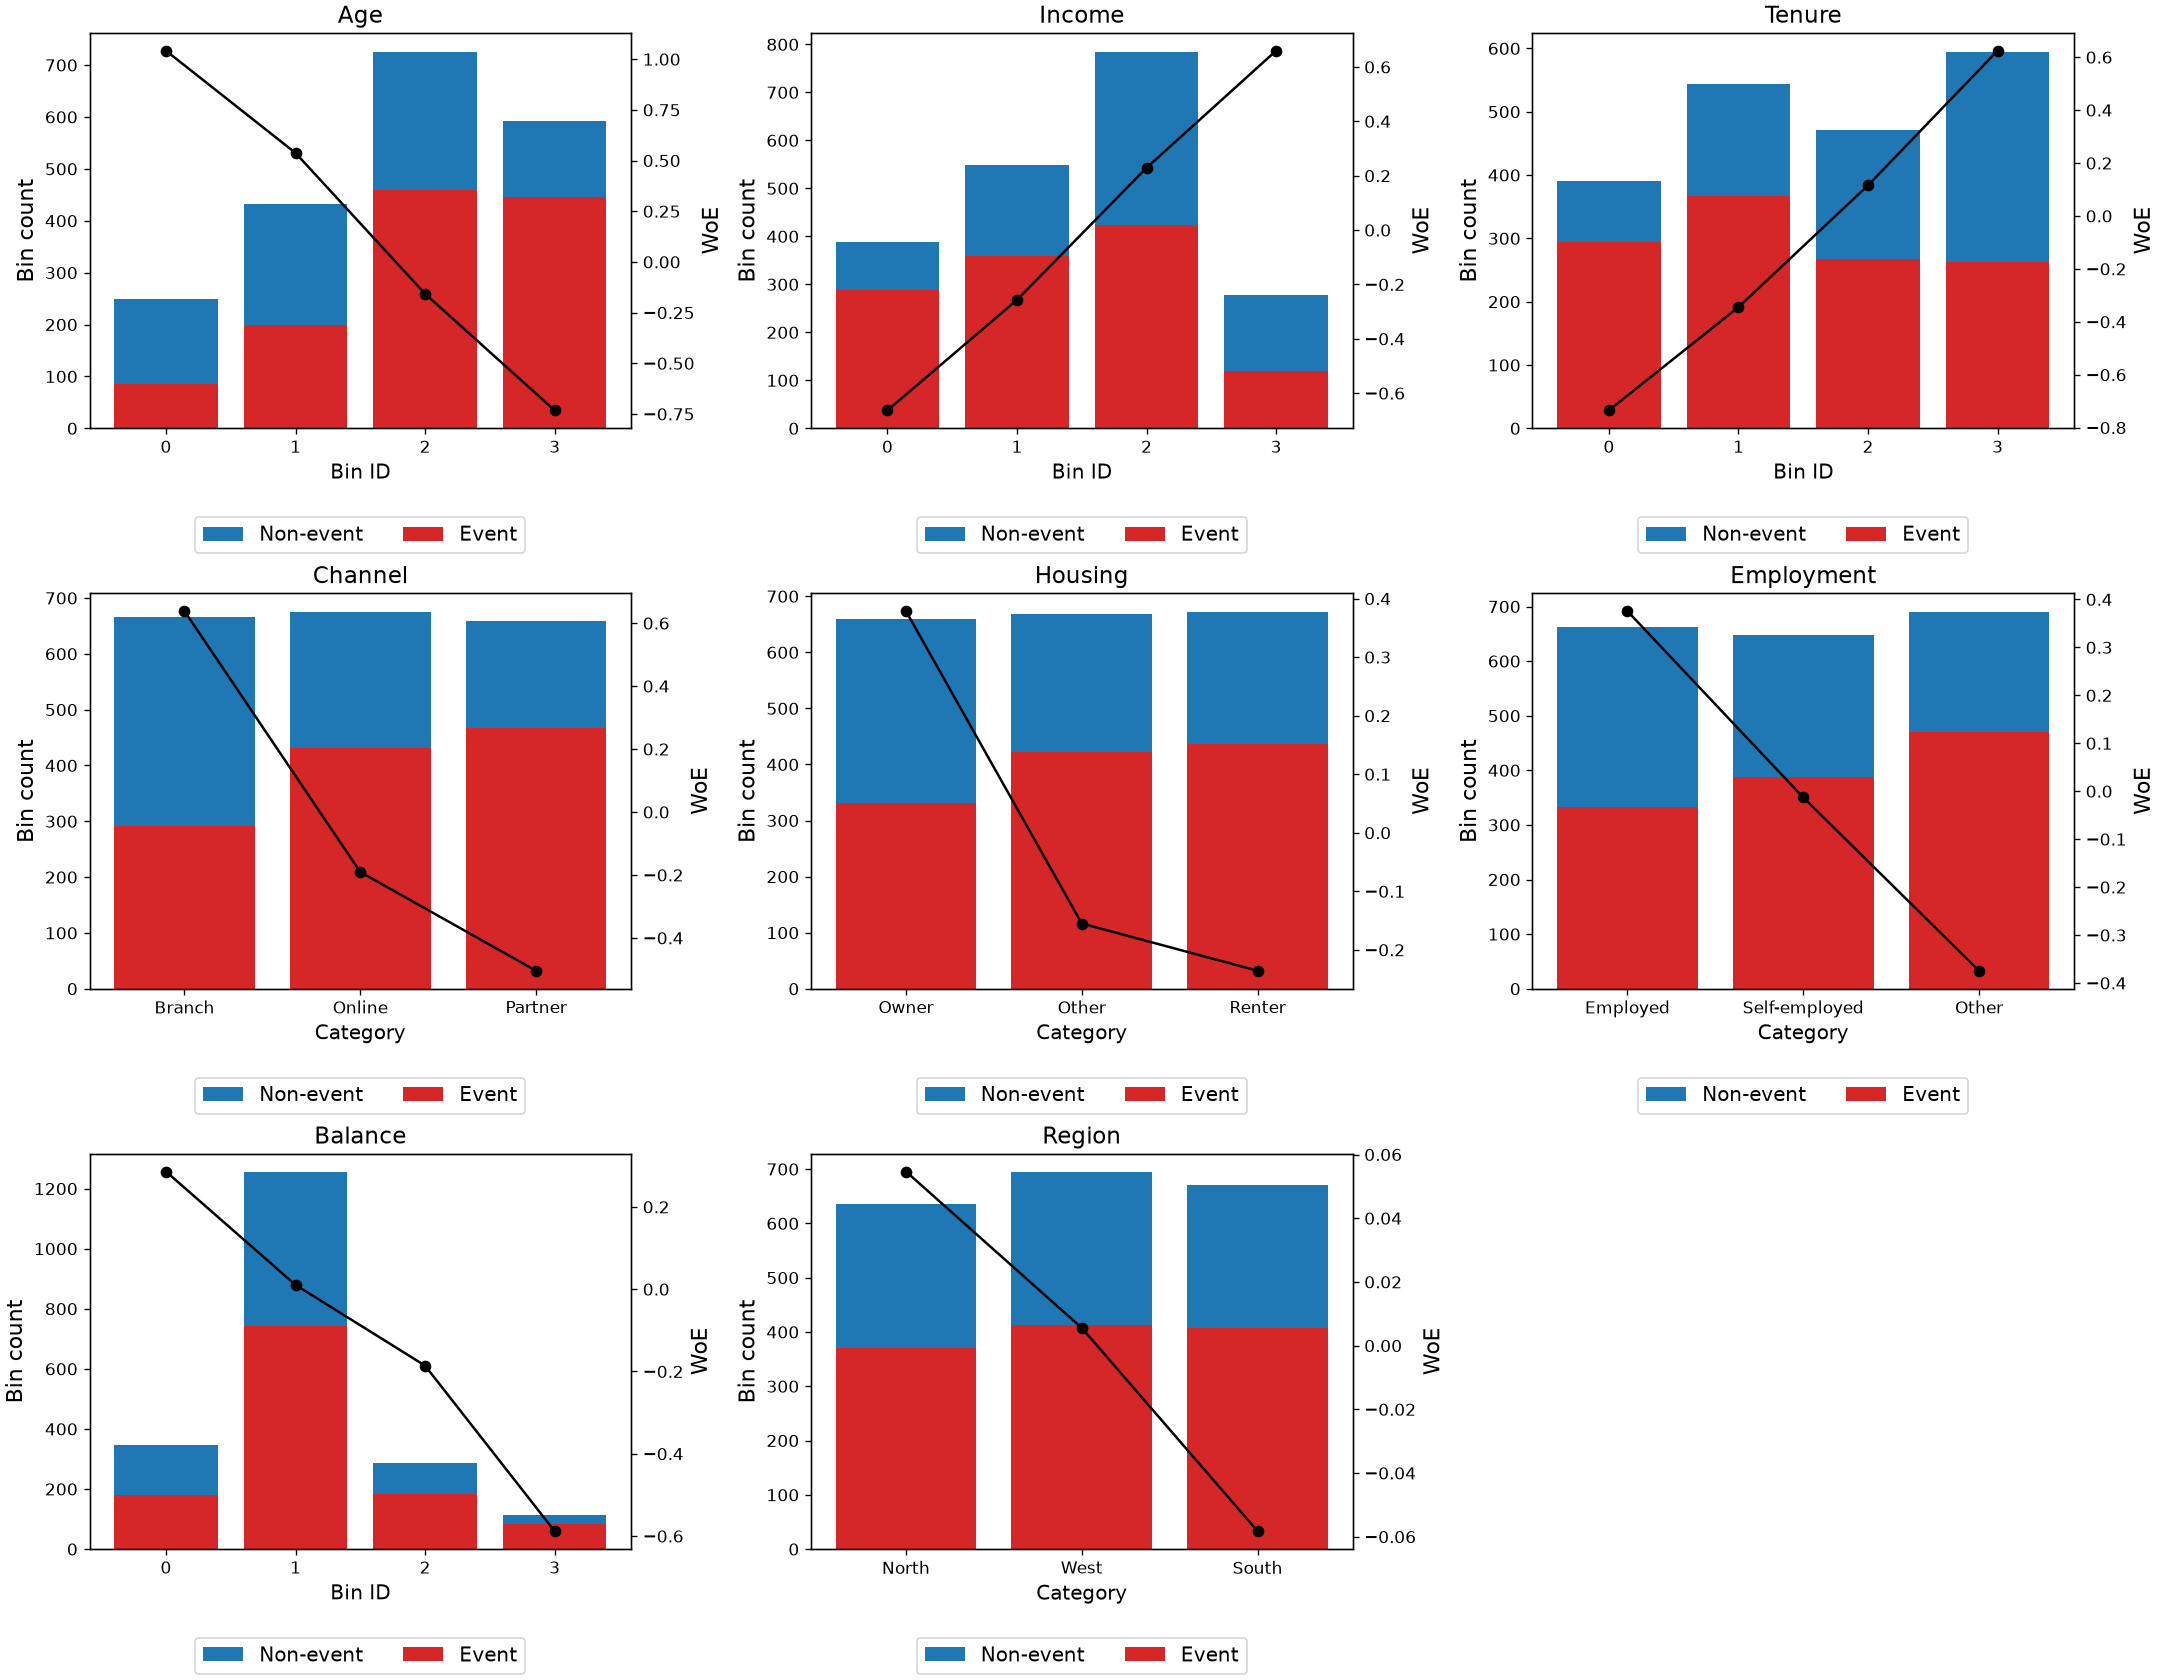
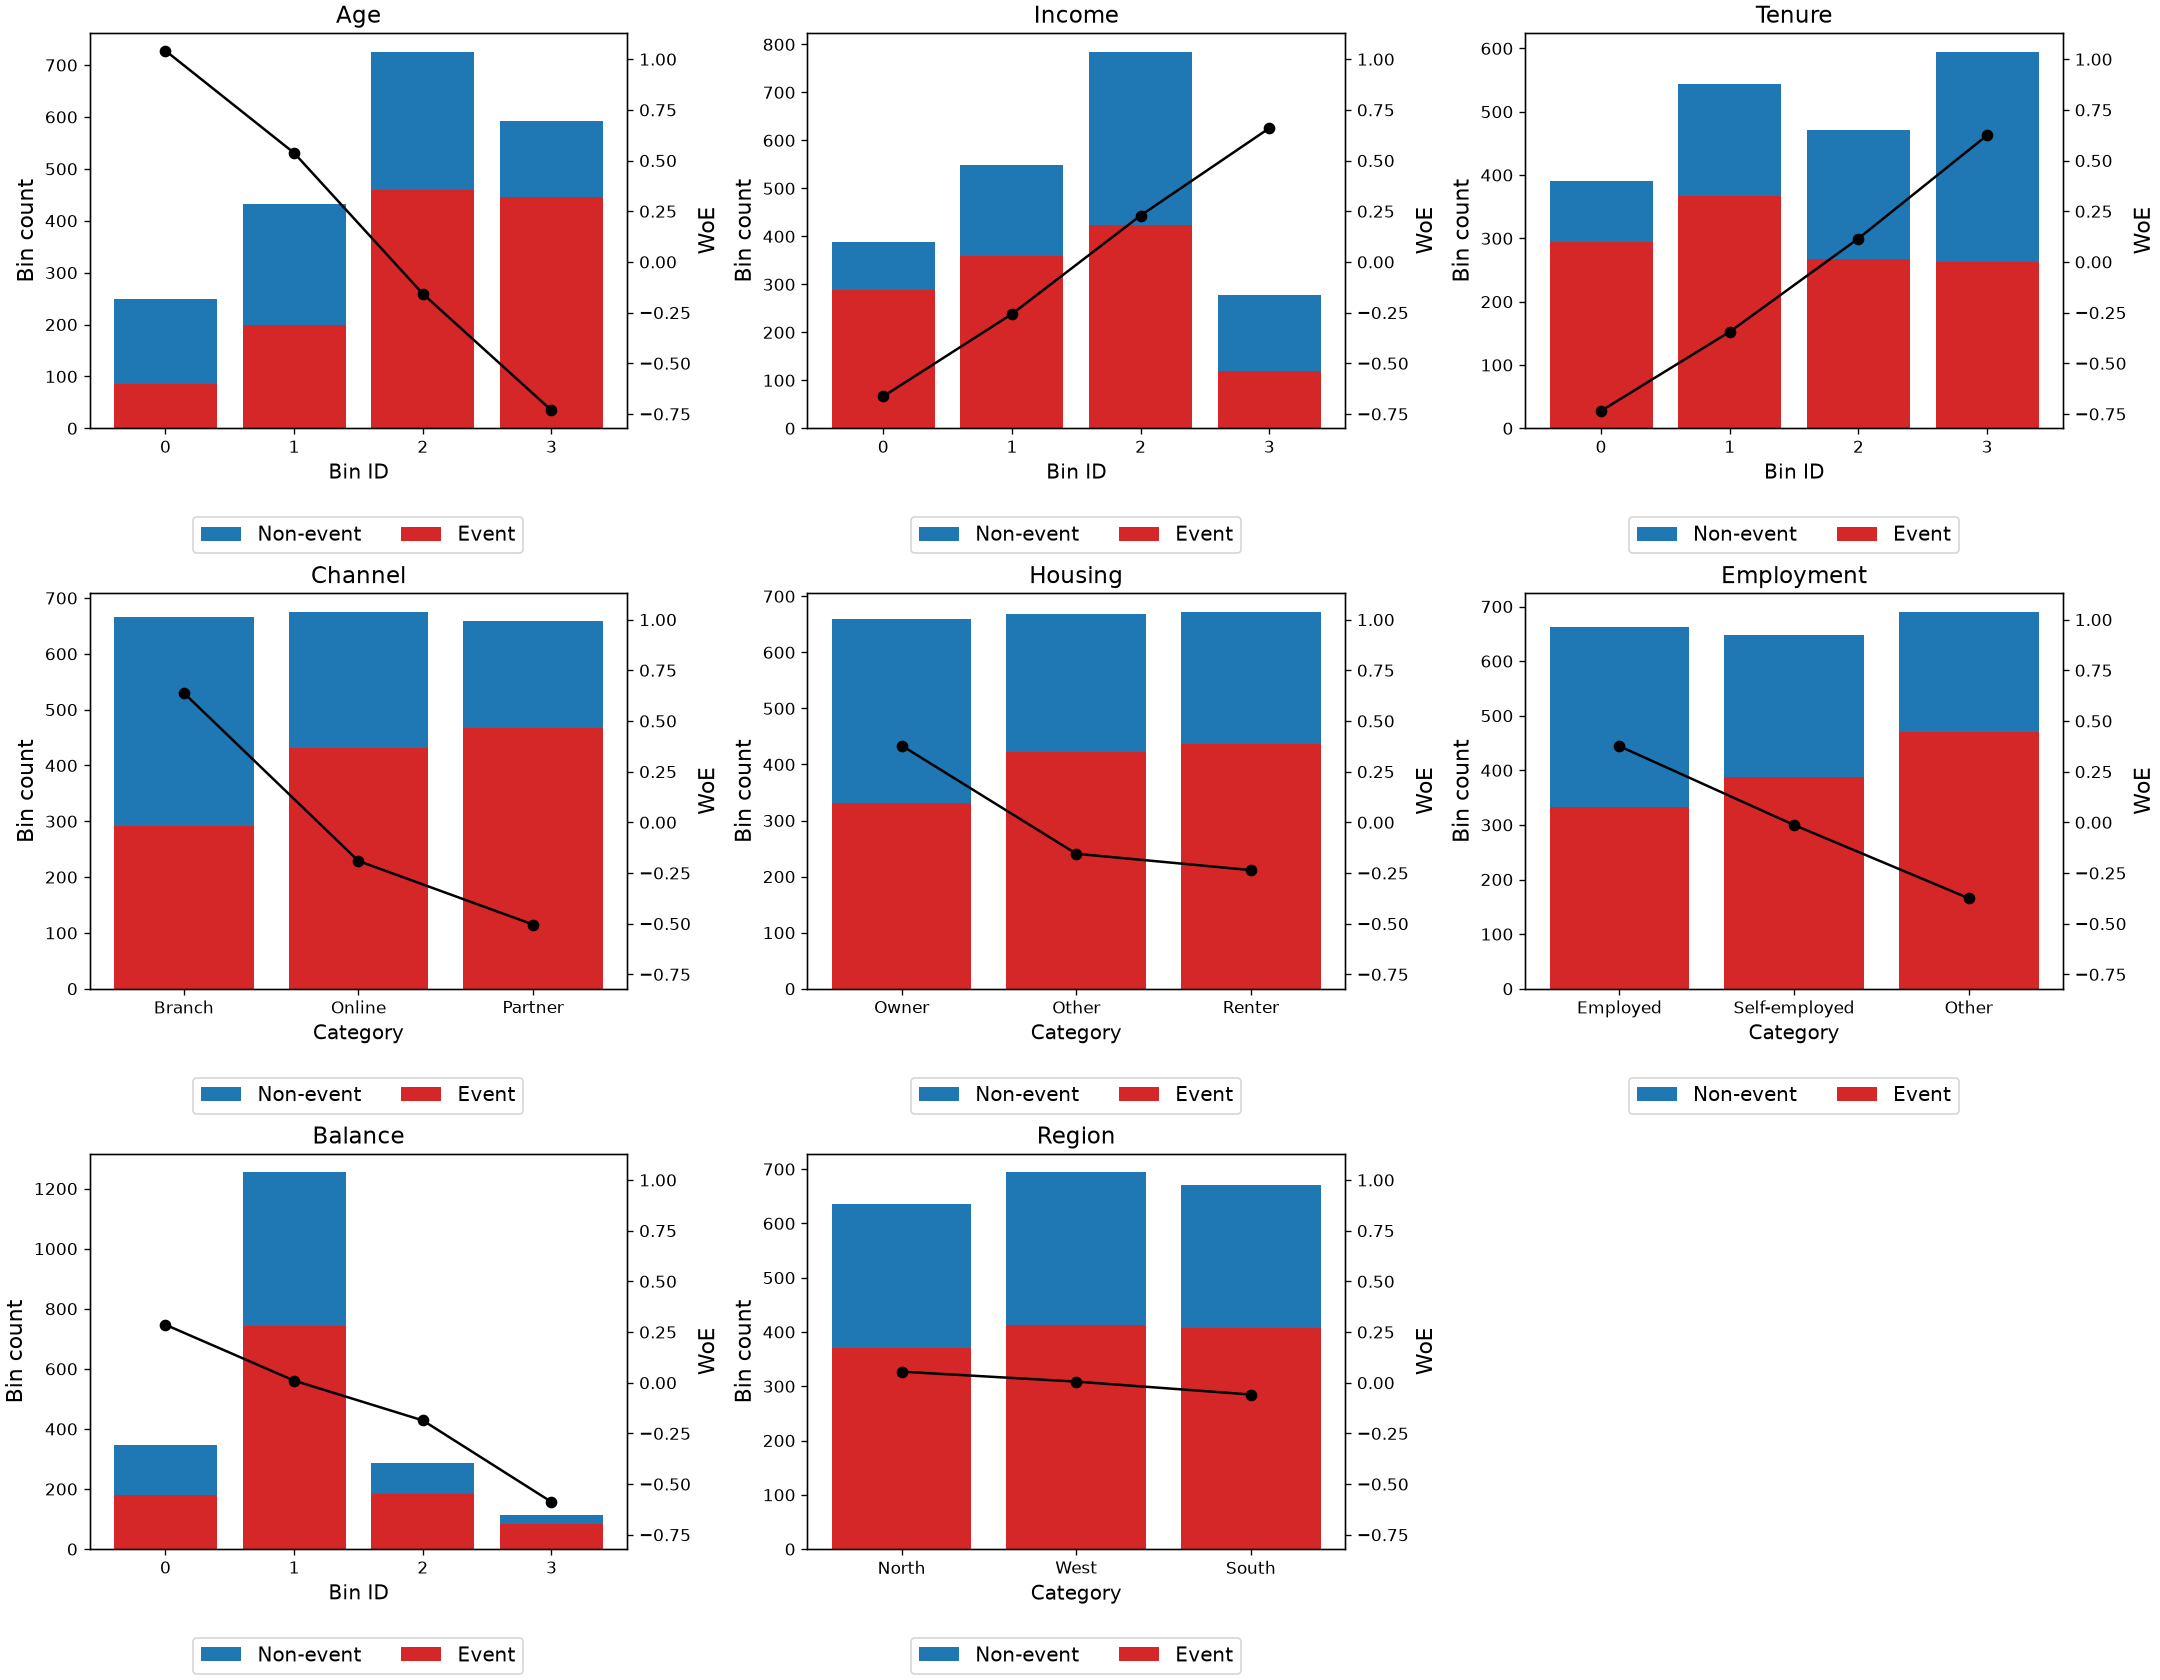
Share metric axes by default in binning process grids

diff --git a/optbinning/binning/binning_process.py b/optbinning/binning/binning_process.py
@@ -1631,7 +1631,8 @@ class BinningProcess(Base, BaseEstimator, BaseBinningProcess):
         return self
 
     def plot(self, variable_names=None, ncols=None, figsize=None,
-             add_special=True, add_missing=True, show_bin_labels=False):
+             add_special=True, add_missing=True, show_bin_labels=False,
+             share_metric=True):
         """Plot fitted variables in a grid using their existing binning plots.
 
         Parameters
@@ -1650,6 +1651,9 @@ class BinningProcess(Base, BaseEstimator, BaseBinningProcess):
             Whether to include missing-value bins.
         show_bin_labels : bool (default=False)
             Whether to show bin labels instead of bin IDs.
+        share_metric : bool (default=True)
+            Share the secondary metric y-axis across panels, using limits that
+            cover all plotted variables. Count axes remain independent.
 
         Returns
         -------
@@ -1666,6 +1670,8 @@ class BinningProcess(Base, BaseEstimator, BaseBinningProcess):
         the existing default metrics and standard bin layout for each type.
         """
         self._check_is_fitted()
+        if not isinstance(share_metric, bool):
+            raise TypeError("share_metric must be a boolean.")
         if ncols is not None and (
                 isinstance(ncols, bool) or
                 not isinstance(ncols, numbers.Integral) or ncols < 1):
@@ -1699,10 +1705,20 @@ class BinningProcess(Base, BaseEstimator, BaseBinningProcess):
             figsize=figsize if figsize is not None else (6*ncols, 4.5*nrows),
             layout="constrained")
         try:
+            metric_axes = []
             for ax, table in zip(axes.flat, tables):
                 table.plot(ax=ax, add_special=add_special,
                            add_missing=add_missing,
                            show_bin_labels=show_bin_labels)
+                # Each standard table plot adds one secondary metric axis.
+                metric_axes.append(fig.axes[-1])
+            if share_metric:
+                limits = [ax.get_ylim() for ax in metric_axes]
+                for metric_ax in metric_axes[1:]:
+                    metric_ax.sharey(metric_axes[0])
+                metric_axes[0].set_ylim(
+                    min(low for low, high in limits),
+                    max(high for low, high in limits))
             for ax in list(axes.flat)[len(tables):]:
                 ax.set_visible(False)
         except Exception:

diff --git a/tests/test_binning_process_plot.py b/tests/test_binning_process_plot.py
@@ -78,6 +78,8 @@ def test_supplied_axes_ownership(process, tmp_path):
 
 def test_validation(process):
     figures = plt.get_fignums()
+    with raises(TypeError, match="share_metric"):
+        process.plot(share_metric="yes")
     for ncols in [0, -1, 1.5, True]:
         with raises(ValueError):
             process.plot(ncols=ncols)
@@ -153,4 +155,30 @@ def test_mixed_numerical_categorical_grid(target_kind, tmp_path):
     labels = " ".join(label.get_text() for label in axes[0, 1].get_xticklabels())
     assert "low" in labels and "high" in labels
     fig.savefig(tmp_path / f"mixed_{target_kind}.png")
+    plt.close(fig)
+
+
+def test_shared_metric_axes(process):
+    fig, axes = process.plot(share_metric=False)
+    metrics = fig.axes[axes.size:]
+    limits = [ax.get_ylim() for ax in metrics]
+    expected = (min(low for low, high in limits),
+                max(high for low, high in limits))
+    counts = [ax.get_ylim() for ax in axes.flat]
+    assert not metrics[0].get_shared_y_axes().joined(metrics[0], metrics[1])
+    plt.close(fig)
+
+    fig, axes = process.plot()
+    metrics = fig.axes[axes.size:]
+    for metric in metrics:
+        np.testing.assert_allclose(metric.get_ylim(), expected)
+        assert metrics[0].get_shared_y_axes().joined(metrics[0], metric)
+    assert [ax.get_ylim() for ax in axes.flat] == counts
+    assert not axes.flat[0].get_shared_y_axes().joined(
+        axes.flat[0], axes.flat[1])
+    # Later adjustments propagate to metric axes, including extreme limits.
+    metrics[-1].set_ylim(-100, 100)
+    for metric in metrics:
+        assert metric.get_ylim() == (-100, 100)
+    assert [ax.get_ylim() for ax in axes.flat] == counts
     plt.close(fig)

diff --git a/doc/source/binning_process.rst b/doc/source/binning_process.rst
@@ -19,6 +19,10 @@ By default, the grid uses ``ceil(sqrt(number of plotted variables))`` columns
 and enough rows to fit all variables. Override this with ``ncols=3``, for
 example. Unused panels are hidden.
 
+Metric y-axes share a common scale by default, covering all plotted variables.
+Use ``share_metric=False`` for independent metric scales. Bin-count axes and
+x-axes remain independent.
+
 Choose a subset and its order with ``variable_names=["age", "income"]``.
 The grid supports standard binary, continuous and multiclass binning tables,
 uses their default metrics, and builds tables if needed. It returns a figure
@@ -101,7 +105,7 @@ Declare categorical columns explicitly with ``categorical_variables``.
    The unused ninth panel is hidden automatically. Numerical features use
    bin IDs; categorical features use names set through the returned axes.
    Stacked bars show event/non-event counts; black curves show WoE on
-   each panel's right axis. Special and missing bins are hidden because this
+   each panel's right axis, with a shared scale. Special and missing bins are hidden because this
    synthetic dataset contains neither.
 
 No feature-selection criteria are configured here, so ``plot()`` includes
